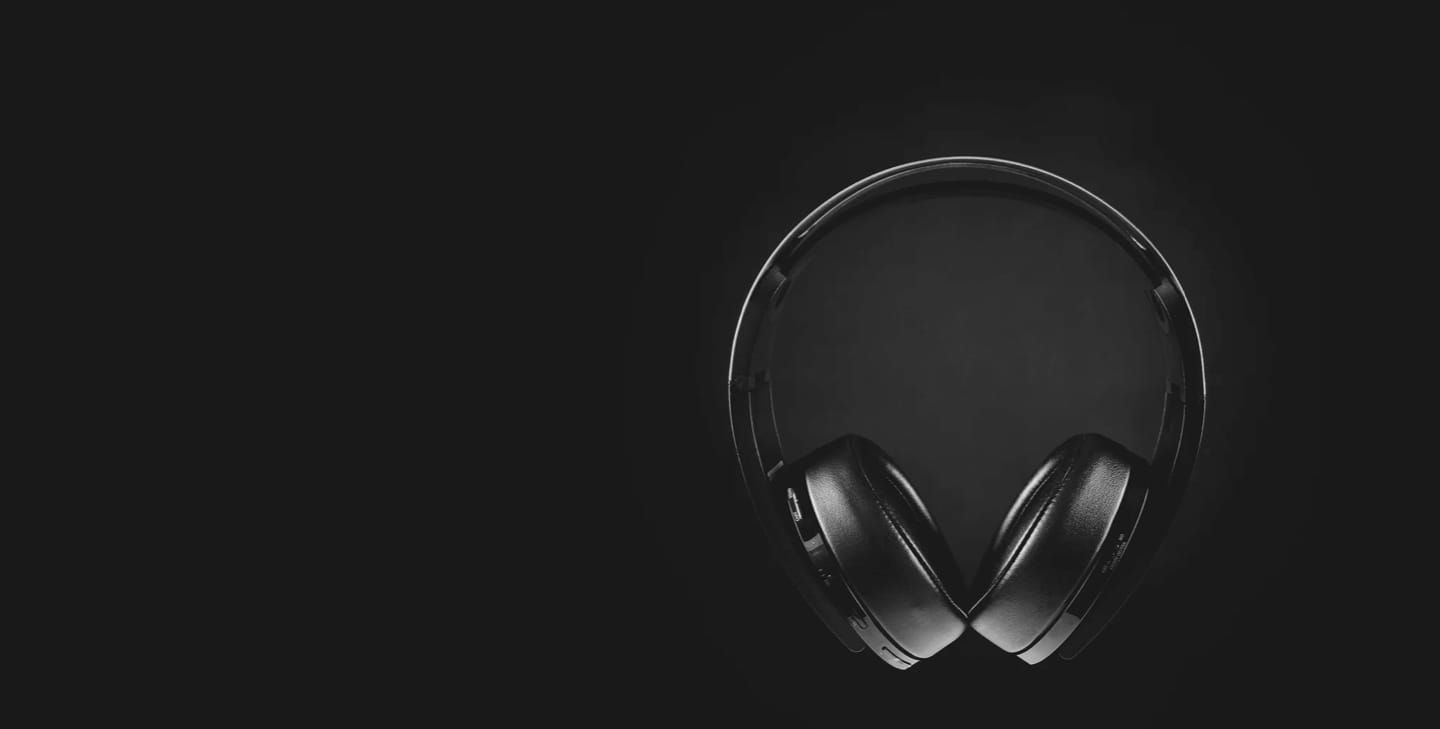
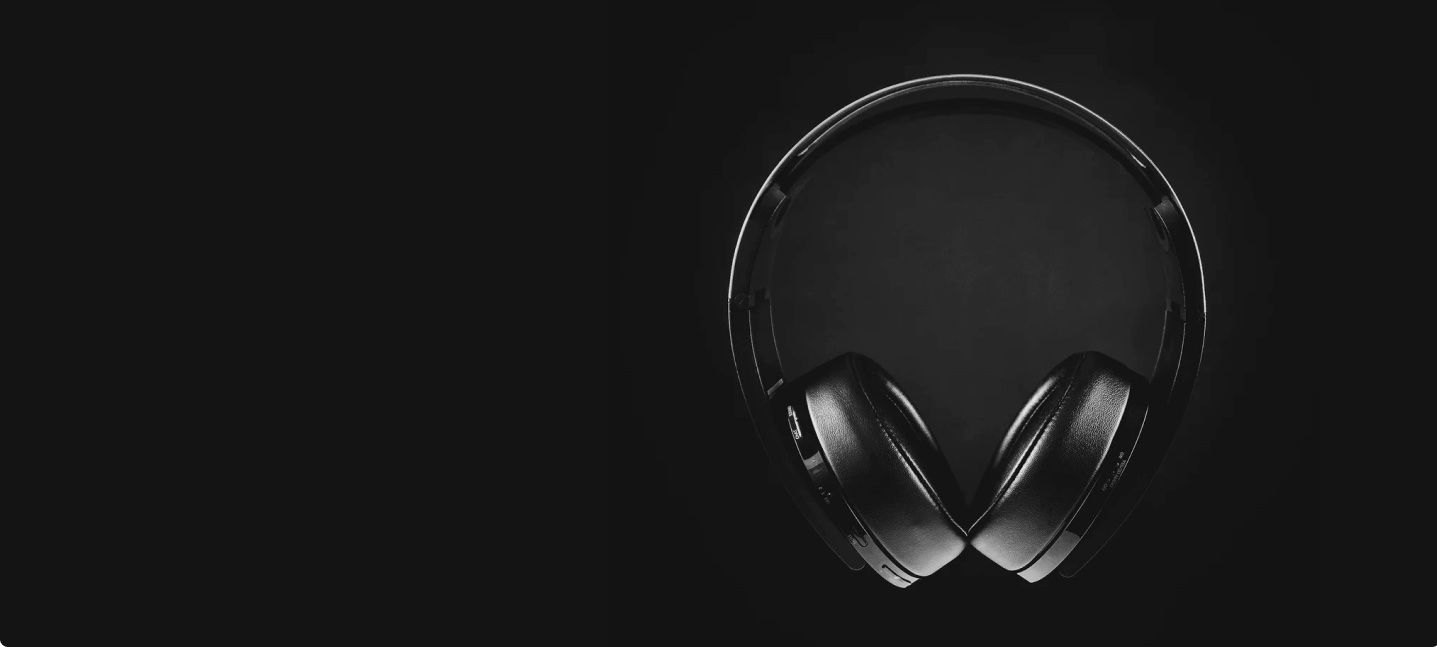
Style hero area background

diff --git a/src/App.css b/src/App.css
@@ -8,11 +8,38 @@ body {
   font-family: 'Manrope Variable', sans-serif;
 }
 
+/* Typography */
+
+h1,
+h2,
+h3,
+h4,
+h5,
+h6 {
+  font-weight: 700;
+  text-transform: uppercase;
+}
+
+h1 {
+  color: #FFF;
+  font-size: 3.5rem;
+  line-height: 3.625rem;
+  letter-spacing: 0.125rem;
+  margin-bottom: 2rem;
+}
+
+p {
+  font-size: 0.9375rem;
+  line-height: 1.5625rem;
+  margin-bottom: 1rem;
+}
+
 button {
   background: #D87D4A;
   border: none;
   color: #FFF;
-  font-family: 'Manrope Variable', sans-serif;;
+  cursor: pointer;
+  font-family: 'Manrope Variable', sans-serif;
   font-size: 0.8125rem;
   font-style: normal;
   font-weight: 700;
@@ -35,7 +62,8 @@ button {
 /* Layout */
 
 header {
-  background-color: #000;
+  background-color: #0E0E0E;
+  ;
   color: #fff;
   display: flex;
   align-items: center;
@@ -104,10 +132,16 @@ footer nav {
 /* Home page */
 
 .hero-area {
-  background: url("./src/assets/home/desktop/image-hero.jpg") no-repeat center center;
-  background-position: cover;
-  height: 45rem;
+  background: radial-gradient(transparent, #0E0E0E), url("./src/assets/home/desktop/image-hero.jpg") center/cover;
+  color: #fff;
+  height: 39rem;
 }
+
+.home-product-card {
+  width: 25rem;
+}
+
+/* Shop page */
 
 .product-wrap {
   display: flex;
@@ -117,7 +151,6 @@ footer nav {
 }
 
 .product-card {
-  height: 25rem;
   width: 20rem;
   padding: 2rem 0;
 }

diff --git a/src/pages/Home.jsx b/src/pages/Home.jsx
@@ -2,13 +2,15 @@ export default function Home() {
   return (
     <>
       <section className="hero-area">
-          <h5>New Product</h5>
-          <h2>XX99 Mark II Headphones</h2>
-          <p>
-            Experience natural, lifelike audio and exceptional build quality made
-            for the passionate music enthusiast.
-          </p>
-          <button>See product</button>
+          <div className="home-product-card">
+            <h5>New Product</h5>
+            <h1>XX99 Mark II Headphones</h1>
+            <p>
+              Experience natural, lifelike audio and exceptional build quality made
+              for the passionate music enthusiast.
+            </p>
+            <button>See product</button>
+        </div>
       </section>
     </>
   );
